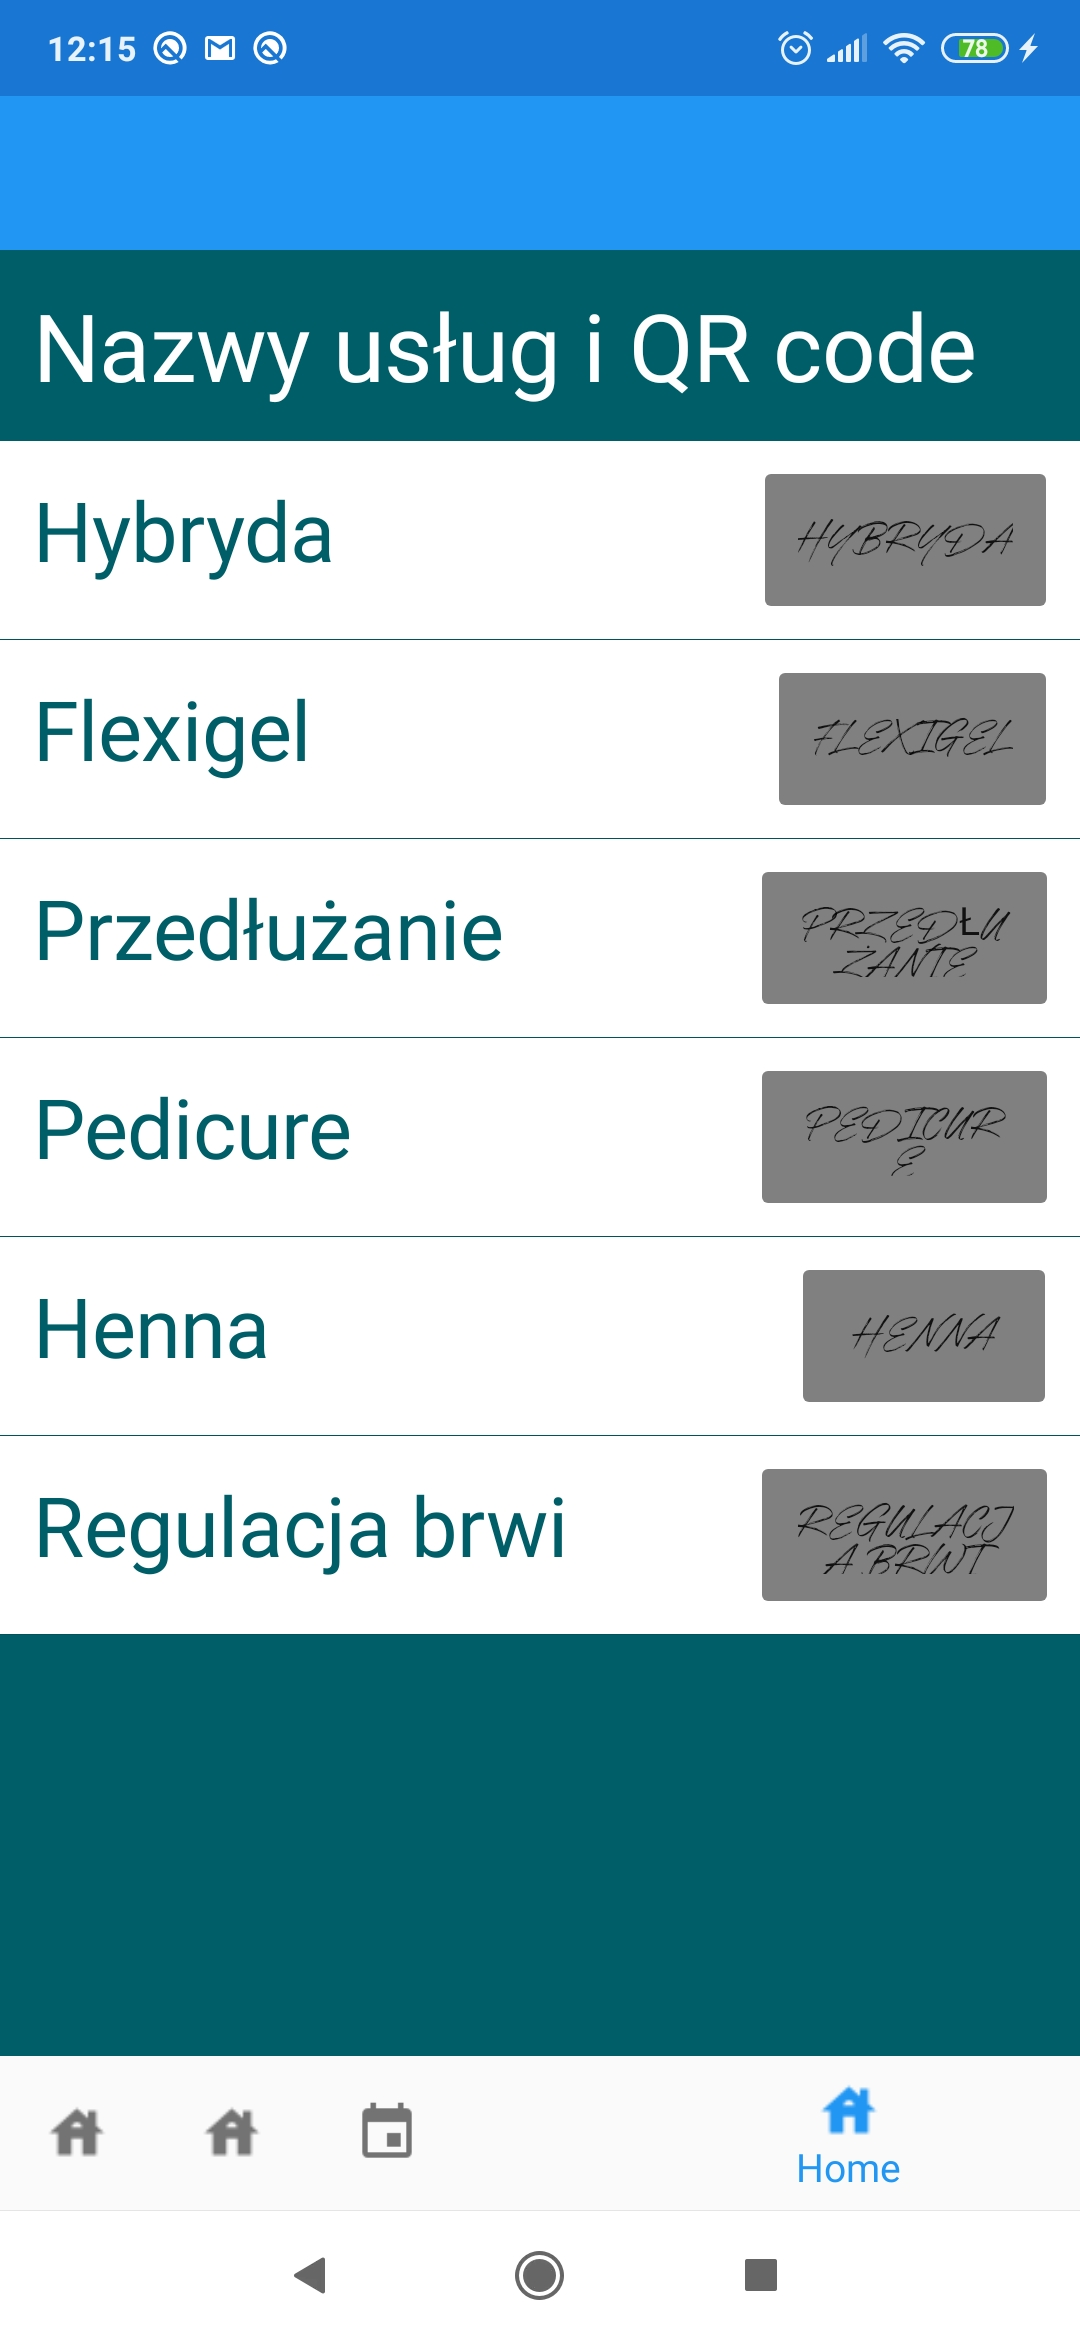
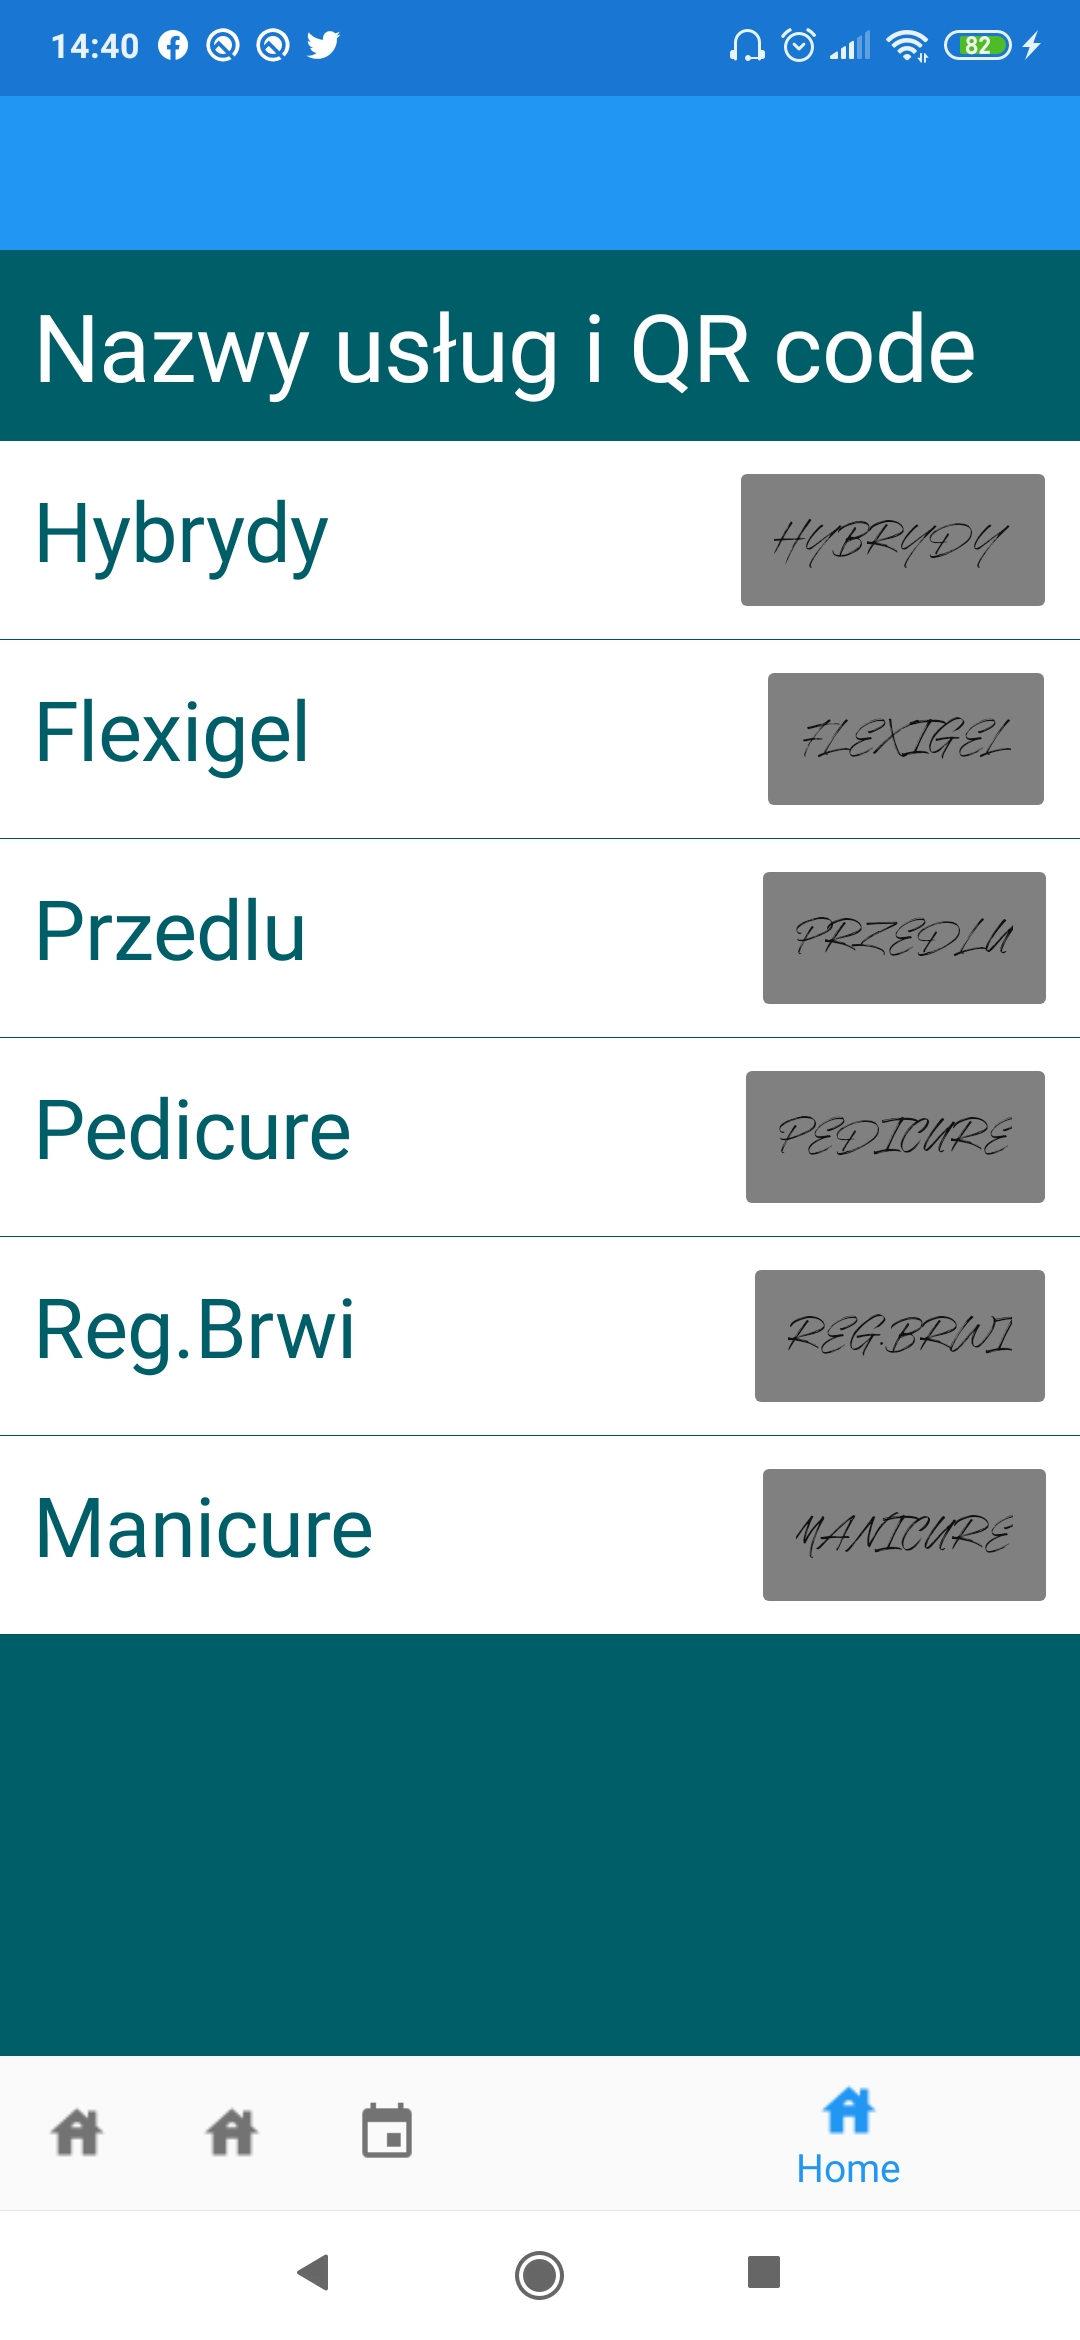
MainTabbedPage has been changed

diff --git a/PazumAnia/PazumAnia/Views/MainTabbedPage.xaml b/PazumAnia/PazumAnia/Views/MainTabbedPage.xaml
@@ -96,7 +96,7 @@
                                 <Grid Padding="12"
                                   BackgroundColor="White">
                                     <Grid.ColumnDefinitions>
-                                        <ColumnDefinition Width="2.5*"/>
+                                        <ColumnDefinition Width="2.2*"/>
                                         <ColumnDefinition Width="1*"/>
                                     </Grid.ColumnDefinitions>
 
@@ -111,7 +111,9 @@
                                             HorizontalOptions="End"
                                             Grid.Column="1"
                                             CornerRadius="2"
-                                            BackgroundColor="Gray"/>
+                                            FontSize="15"
+                                            BackgroundColor="Gray"
+                                            />
 
                                 </Grid>
                             </ViewCell>

diff --git a/PazumAnia/PazumAnia/Views/MainTabbedPage.xaml.cs b/PazumAnia/PazumAnia/Views/MainTabbedPage.xaml.cs
@@ -24,12 +24,12 @@ namespace PazumAnia.Views
 
             MainListView.ItemsSource = new List<string>
             {
-                "Hybryda",
+                "Hybrydy ",
                 "Flexigel",
-                "Przedłużanie",
+                "Przedlu",
                 "Pedicure",
-                "Henna",
-                "Regulacja brwi",
+                "Reg.Brwi",
+                "Manicure",
             };
 
             //barcode
